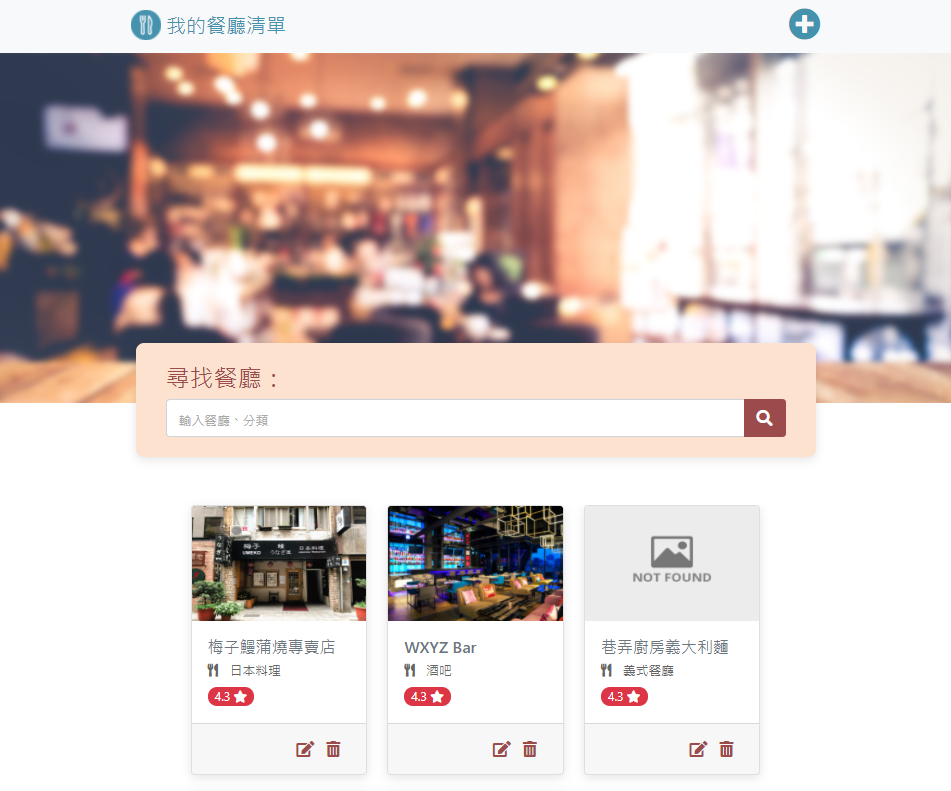
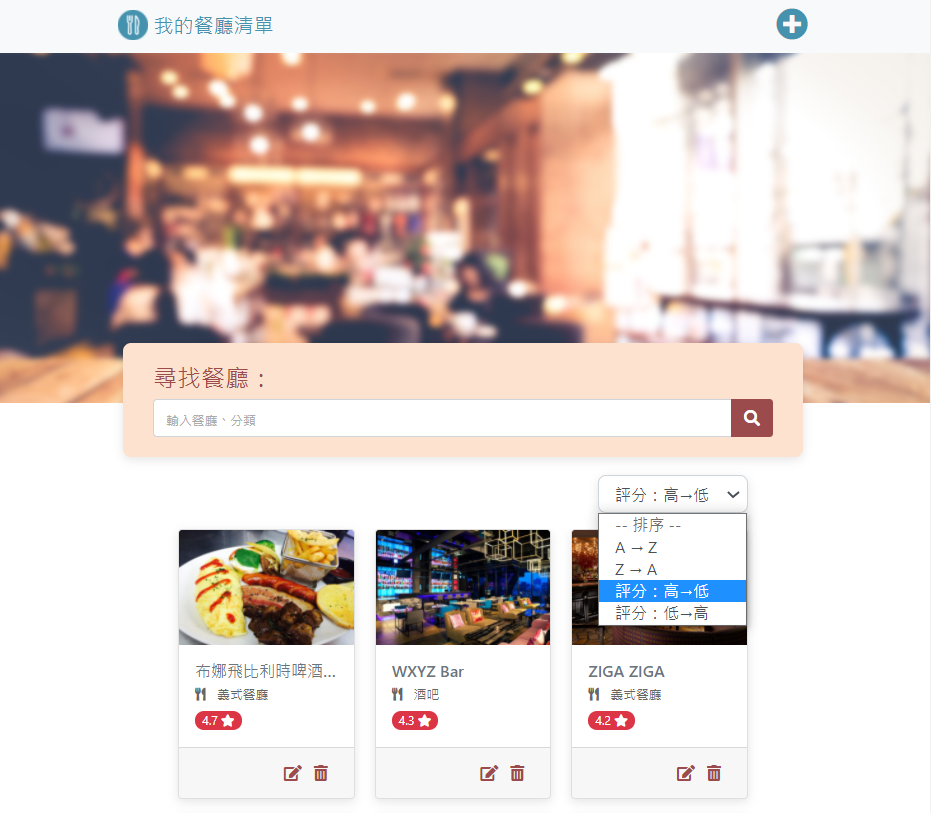
feat: modify README.md

diff --git a/README.md b/README.md
@@ -5,6 +5,8 @@
 ## Features
 
 - 使用者可以在主畫面瀏覽多家餐廳資訊
+- 使用者可以透過餐廳名稱或類別來搜尋
+- 使用者可以透過餐廳名稱或評分來排序
 - 使用者可以點擊卡片查看該餐廳的詳細資訊
 - 使用者可以新增、修改、刪除餐廳資訊
 
